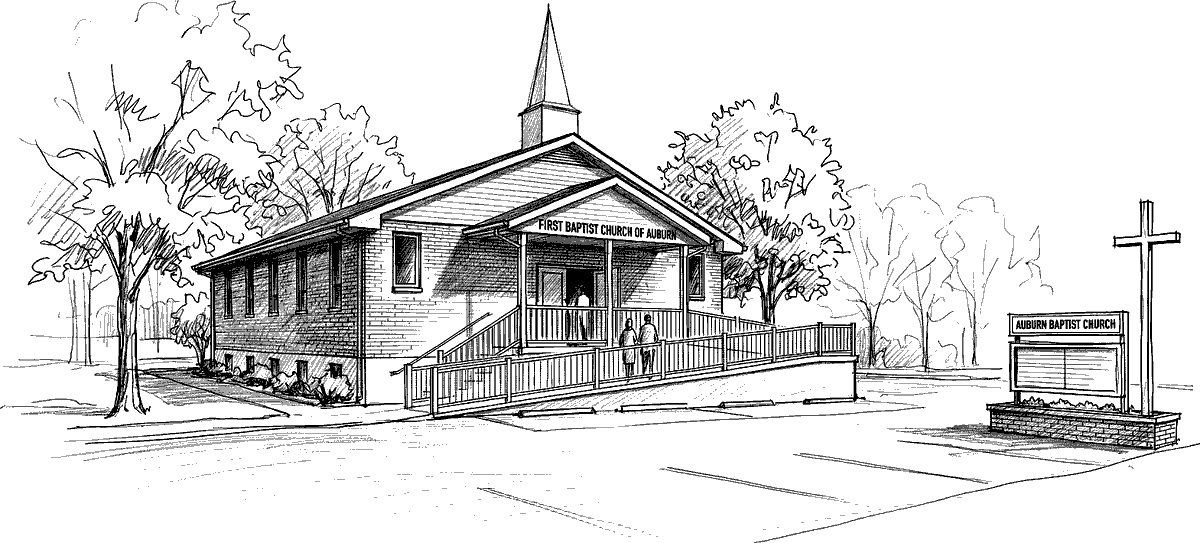
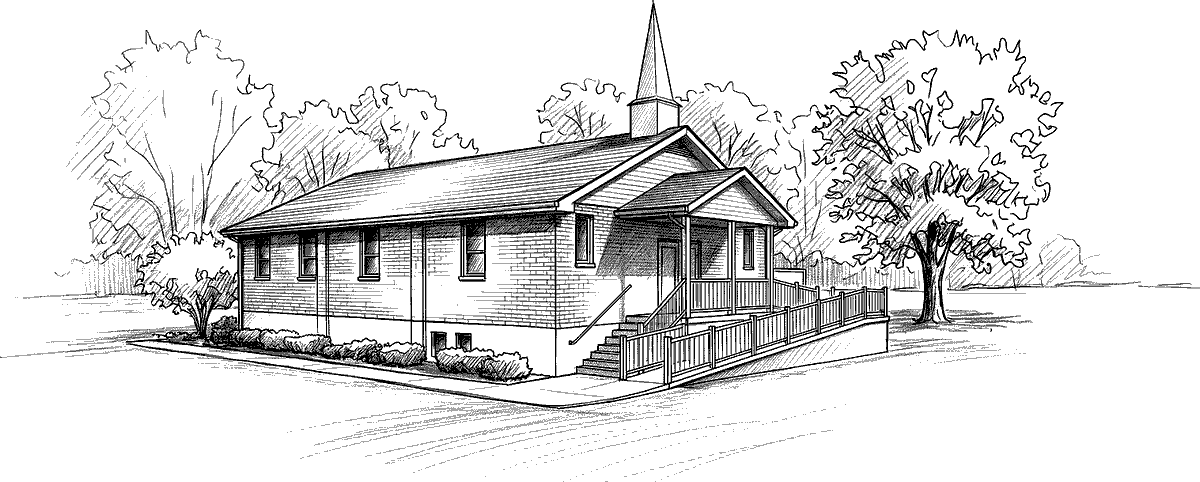
Redraw the building sketch from the real site, building only
The first sketch put the road sign and cross on the wrong side and gave
the long wall five narrow windows. The redraw (Gemini, from street and
aerial photos, with the first sketch as the style reference) has the four
tall windows, the white base, the portico with steps and the long ramp to
the right, and the steeple on the front gable. Building only, no road or
sign, as Nathan chose. The webp is regenerated (43 KB) and the walk
opener's door pin moves to the new doorway.

diff --git a/brand/illustration/README.md b/brand/illustration/README.md
@@ -1,14 +1,18 @@
 # Illustrations
 
-## The building sketch (2026-10-23)
+## The building sketch (redrawn 2026-10-24)
 
 `building-sketch.jpg` is a pen-and-pencil rendering of the church in the manner of a 1950s architect's
-presentation drawing: a three-quarter view from the parking lot, the brick walls in hatched courses,
-the white portico with its lettering, the ramp, the steeple, the road sign and the plain roadside
-cross. It was drawn in Gemini from the church's own photos and picked from four versions.
+presentation drawing: a three-quarter view from the parking lot, the long brick side with its four
+tall windows and white base, the white portico with its steps and the long ramp to the right, the
+steeple on the front gable, shrubs at its foot and trees behind. It is the building only: no road,
+sign or cross. Drawn in Gemini from the street and aerial photos of 4241 Hamilton-Scipio Rd (kept in
+the studio's records, not this repo), with the first sketch as the style reference; Nathan chose to
+leave out the road and sign because Gemini kept placing the sign wrongly. The first sketch
+(2026-10-23) had the sign and cross on the wrong side and five narrow windows; it is in git history.
 
 The site does not show this file. `node scripts/brand-sketch.mjs` lifts its lines off the paper
-into `src/assets/brand/building-sketch.webp` (transparency only, about 47 KB), and
+into `src/assets/brand/building-sketch.webp` (transparency only, about 43 KB), and
 `src/components/church/BuildingSketch.astro` paints it in whatever ink the place needs. It appears in
 three places:
 

diff --git a/docs/agent/changelog.md b/docs/agent/changelog.md
@@ -1,5 +1,7 @@
 # Change history
 
+_2026-10-24: the building sketch redrawn from the real site. The first sketch put the road sign and cross on the wrong side and gave the long wall five narrow windows; the redraw (Gemini, from street and aerial photos, the first sketch as the style reference) has the four tall windows, the white base, the portico with steps and the ramp to the right, and the steeple on the front gable. Nathan chose the building only, no road or sign, since Gemini kept misplacing the sign. `node scripts/brand-sketch.mjs` regenerated the webp (43 KB); the walk opener's door pin moved to the new doorway._
+
 _2026-10-24: the building sketch back in the footer, faint (16%, 12% on one column) behind the top area at the bottom right, so the compact footer keeps its height; and the phone, now set but unconfirmed, shows only where it can carry the "To confirm" tag (the footer and Contact), not in the menu or Home's header line until `phoneConfirmed` is ticked._
 
 _2026-10-24: the church phone, (513) 863-3500 (the church line on its earlier website and local listings), set in Site settings with `phoneConfirmed` false by `scripts/content/church-phone.mjs` under the write protocol; it shows with the "To confirm" tag and stays out of the JSON-LD until the church ticks the box. An earlier run the same day set a personal number by mistake; this replaced it._

diff --git a/DESIGN.md b/DESIGN.md
@@ -107,7 +107,7 @@ ones in `src/assets/brand/`). The old seven colours are gone from the CSS, the t
   darker grout; a fleck texture on the CSS bricks). One module draws it:
   `scripts/lib/brick-print.mjs`, used by the path, sill, tiles, markers, share cards, Studio
   strips and the letterforms.
-- **The building sketch** (2026-10-23): a pen-and-pencil rendering of the church, lifted off its
+- **The building sketch** (2026-10-23, redrawn from the real site 2026-10-24, the building only): a pen-and-pencil rendering of the church, lifted off its
   paper and painted in navy (pale navy in the footer) through `BuildingSketch.astro`. Used as the
   About "Our building" band and as the Plan your visit walk's opener with the
   front door pinned. Master and notes: `brand/illustration/`.
